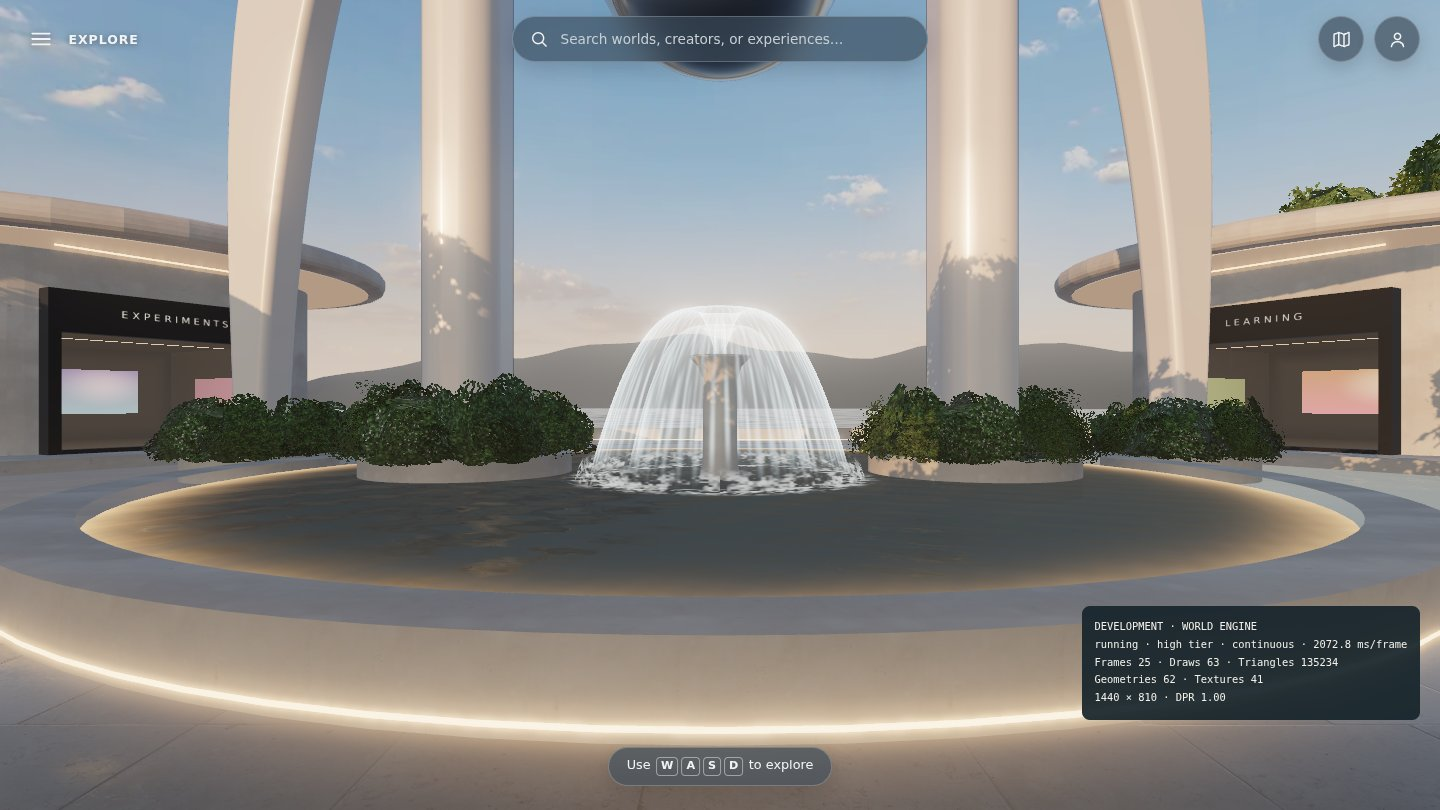
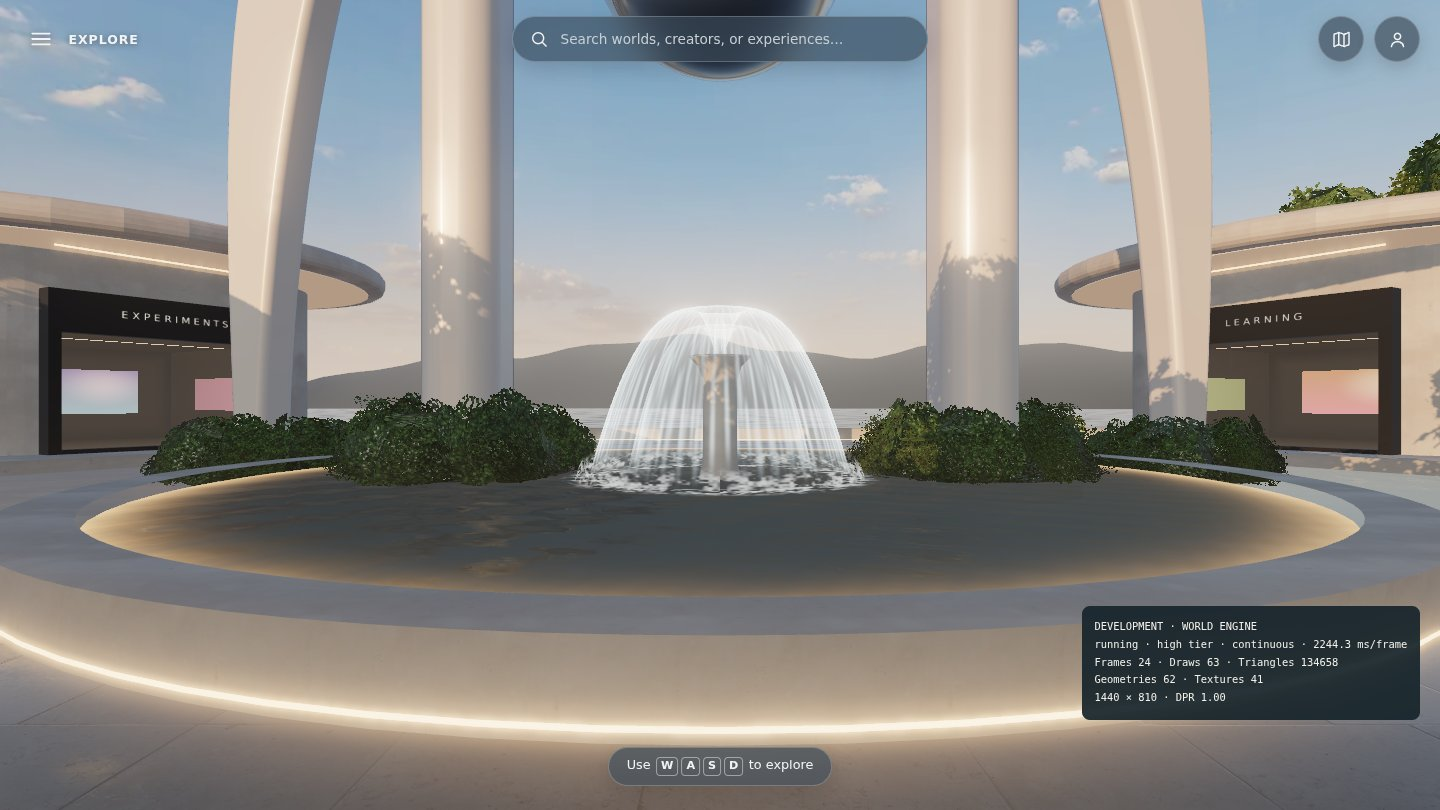
world: no visible base under the statue shrubs
The shrubs sat on raised stone drums that showed as a pale band. Basin
beds now keep their wall under the waterline with soil at the surface,
plaza beds are flush with the paving, and the outer shrub ring
overhangs the edge so foliage reaches the water or ground. Blockers
cover the overhang. Spawn: 96 draws, 149.4k triangles.

Claude-Session: https://claude.ai/code/session_01BtzidGomHJcCgLuWB6rxCd

Changed region(s): [[0.0938, 0.463, 0.4375, 0.6173], [0.5938, 0.463, 0.9062, 0.6173], [0.9062, 0.7716, 0.9375, 0.8333]]

diff --git a/src/world/district/landscape.ts b/src/world/district/landscape.ts
@@ -1,6 +1,6 @@
 import {
   BufferAttribute, BufferGeometry, CircleGeometry, CylinderGeometry, DoubleSide, IcosahedronGeometry, InstancedMesh, Matrix4,
-  MeshStandardMaterial, PlaneGeometry, Quaternion, RingGeometry, Vector3,
+  MeshStandardMaterial, PlaneGeometry, Quaternion, Vector3,
 } from 'three';
 import type { Group, Material, Mesh, Texture } from 'three';
 import { mergeGeometries } from 'three/addons/utils/BufferGeometryUtils.js';
@@ -298,25 +298,27 @@ export function buildLandscape(root: Group, m: DistrictMaterials, batch: StaticB
   if (tuft) instanced(root, tuft, m.grass, grass, resources, 'grass', false);
   rocks.forEach((list, i) => instanced(root, boulder(31 + i * 17), m.rock, list, resources, `boulders-${i}`));
 
-  // Landmark planters: a stone drum around each footing, packed with mounded shrubs that hide
-  // where the legs meet the ground. Islands in the fountain basin; raised beds on the plaza.
+  // Landmark planters: soil beds around each footing, packed with mounded shrubs that hide where
+  // the legs meet the ground. No stone shows: in the fountain basin the bed's wall stops just under
+  // the waterline so the shrubs rise straight out of the water; on the plaza the bed is flush with
+  // the paving. The outer ring overhangs the bed's edge so foliage reaches all the way down.
   const statueShrubs: Matrix4[][] = shrubKinds.map(() => []);
+  const waterline = 0.36;
   for (const planter of landmarkPlanters()) {
-    const floor = planter.inBasin ? -0.2 : 0;
-    const top = planter.inBasin ? 0.75 : 0.55;
-    const wall = new CylinderGeometry(planter.radius, planter.radius, top - floor, 48, 1, true);
-    batch.add(m.stone, wall, place(planter.x, (top + floor) / 2, planter.z), 1.5);
-    batch.add(m.stone, new RingGeometry(planter.radius - 0.22, planter.radius, 48).rotateX(-Math.PI / 2), place(planter.x, top, planter.z), 1.5);
-    batch.add(m.soil, new CircleGeometry(planter.radius - 0.22, 36).rotateX(-Math.PI / 2), place(planter.x, top - 0.08, planter.z), 1.2);
-    // A tight ring hugging the leg, then a lower ring spilling toward the rim.
+    const soil = planter.inBasin ? waterline + 0.01 : 0.012;
+    if (planter.inBasin) {
+      batch.add(m.stone, new CylinderGeometry(planter.radius, planter.radius, waterline - 0.02 + 0.2, 48, 1, true), place(planter.x, (waterline - 0.02 - 0.2) / 2, planter.z), 1.5);
+    }
+    batch.add(m.soil, new CircleGeometry(planter.radius, 36).rotateX(-Math.PI / 2), place(planter.x, soil, planter.z), 1.2);
+    // A tight ring of large shrubs hugging the leg, then a ring overhanging the bed's edge.
     const leg = planter.radius - 0.6;
     const inner = Math.round(leg * 6); const outer = Math.round(planter.radius * 2.6);
     for (let i = 0; i < inner + outer; i++) {
       const ring = i < inner;
       const a = ((ring ? i / inner : (i - inner) / outer) + (ring ? 0 : 0.5 / outer)) * Math.PI * 2 + rand() * 0.3;
-      const reach = ring ? leg + 0.15 : planter.radius - 0.45;
-      const scale = ring ? 1.05 + rand() * 0.25 : 0.7 + rand() * 0.2;
-      statueShrubs[i % 3 === 2 ? 2 : Math.floor(rand() * 2)]?.push(place(planter.x + Math.cos(a) * reach, top - 0.1, planter.z + Math.sin(a) * reach, rand() * 6, scale));
+      const reach = ring ? leg + 0.15 : planter.radius - (planter.inBasin ? 0.35 : 0.2);
+      const scale = ring ? 1.1 + rand() * 0.25 : 0.9 + rand() * 0.2;
+      statueShrubs[i % 3 === 2 ? 2 : Math.floor(rand() * 2)]?.push(place(planter.x + Math.cos(a) * reach, soil - 0.05, planter.z + Math.sin(a) * reach, rand() * 6, scale));
     }
   }
   const plantShrubs = (models: { kinds: BufferGeometry[]; map: Texture } | null): void => {

diff --git a/src/world/district/layout.ts b/src/world/district/layout.ts
@@ -125,9 +125,10 @@ export function landmarkFootings(): Circle[] {
 }
 
 /**
- * Round stone planters around each landmark footing, planted with shrubs that bury the base of
- * the legs (as in the mockup). The main legs stand in the fountain basin, so theirs are islands;
- * the wing feet's stand on the plaza. Sized to clear the bell fountain's foam and the basin rim.
+ * Round shrub beds around each landmark footing, planted so the base of the legs is buried (as in
+ * the mockup). The main legs stand in the fountain basin, so theirs are islands whose wall stays
+ * under the waterline; the wing feet's are flush with the plaza. Sized to clear the bell
+ * fountain's foam and the basin rim; shrubs overhang the bed by about half a meter.
  */
 export function landmarkPlanters(): (Circle & { inBasin: boolean })[] {
   const { fountain } = district;
@@ -157,7 +158,8 @@ export function districtBlockers(): Blocker[] {
   for (const banner of district.banners) blockers.push({ x: banner.x, z: banner.z, radius: 0.35 });
   for (const bollard of district.bollards) blockers.push({ x: bollard.x, z: bollard.z, radius: 0.25 });
   blockers.push({ x: district.fountain.x, z: district.fountain.z, radius: district.fountain.radius + 0.4 });
-  for (const planter of landmarkPlanters()) blockers.push({ x: planter.x, z: planter.z, radius: planter.radius + 0.1 });
+  // Shrubs overhang their bed by about half a meter.
+  for (const planter of landmarkPlanters()) blockers.push({ x: planter.x, z: planter.z, radius: planter.radius + 0.5 });
   return blockers;
 }
 

diff --git a/docs/STATUE_PLANTING.md b/docs/STATUE_PLANTING.md
@@ -22,19 +22,25 @@ Mockup, before, after (same crop from spawn):
   - flowering: glossy leaves with small pale blossoms.
 
   The atlas reuses the tree script's leaf painter. Normals point out of the mound, and `COLOR_0` carries occlusion. Each shrub is 180–192 triangles.
-- **Layout (`landmarkPlanters()` in `layout.ts`).** Each footing gets a round stone planter, 0.6 m wider than the footing.
+- **Layout (`landmarkPlanters()` in `layout.ts`).** Each footing gets a round shrub bed, 0.6 m wider than the footing.
   - The main legs' planters (2.0 m) are islands in the basin, clear of the bell fountain's foam.
   - The wing feet's planters (1.6 m) are raised beds on the plaza, clear of the basin rim.
-  - The planters replace the footings as navigation blockers. A new unit test checks both clearances.
-- **Planting (`landscape.ts`).** Each planter is a stone drum with a rim and soil (merged into the existing stone and soil batches). A tight ring of larger shrubs hugs the leg, and a lower ring spills toward the rim: 46 shrubs across three kinds, instanced, 3 draw calls. If the file fails to load, the procedural leaf-card mound stands in.
+  - The beds, plus the shrubs' half-meter overhang, replace the footings as navigation blockers. A new unit test checks both clearances.
+- **Planting (`landscape.ts`).** A tight ring of larger shrubs hugs each leg, and an outer ring overhangs the bed's edge: 46 shrubs across three kinds, instanced, 3 draw calls. If the file fails to load, the procedural leaf-card mound stands in.
+- **No visible base (revision).** The first version sat the shrubs on raised stone drums, and the drum showed as a pale band under every mound. Now:
+  - the basin beds' wall stops just under the waterline, and their soil sits at the water surface, so the shrubs rise straight out of the water;
+  - the plaza beds are flush with the paving;
+  - the outer ring moved out to overhang the edge, so foliage reaches the water or the ground all round.
+
+  ![Bases after the revision](art/statue-shrubs-bases.jpg)
 
 ## Cost (SwiftShader counts, desktop 1440×900)
 
 | View | Draws before → after | Triangles before → after |
 | --- | --- | --- |
-| high · spawn | 93 → 96 | 140.5k → 149.9k |
-| high · plaza | 62 → 65 | 126.0k → 135.4k |
-| low · spawn | 71 → 74 | 99.7k → 109.1k |
+| high · spawn | 93 → 96 | 140.5k → 149.4k |
+| high · plaza | 62 → 65 | 126.0k → 134.9k |
+| low · spawn | 71 → 74 | 99.7k → 108.6k |
 
 Spawn is now at the 150k-triangle budget. The first build (120 cards per shrub and a denser outer ring) measured 153.1k and was trimmed to fit. Any further additions in view of spawn need an offset, for example a lighter LOD for the outer groves.
 

diff --git a/docs/PERFORMANCE_BUDGET.md b/docs/PERFORMANCE_BUDGET.md
@@ -78,7 +78,7 @@ It renders four fixed views synchronously, forcing GPU completion with a 1-pixel
 | High tier, desktop 1440×900, reference GPU (M5), median | ≤ 6 ms (≥ 2.5× headroom under 16.7 ms) | 2.7 ms |
 | High tier, DPR 2, reference GPU, median | ≤ 8 ms | 5.0 ms |
 | Draw calls at spawn | ≤ 120 | 96 (Blender trees, landmark, and statue shrubs; bell fountain; SwiftShader count) |
-| Triangles in view | ≤ 150k | 149.9k at spawn: at budget (Blender trees, landmark, and statue shrubs; bell fountain; SwiftShader count) |
+| Triangles in view | ≤ 150k | 149.4k at spawn: at budget (Blender trees, landmark, and statue shrubs; bell fountain; SwiftShader count) |
 | Initial transfer | ≤ 5 MB | 2.27 MB |
 | Local assets ready (broadband) | ≤ 2 s | about 0.5 s |
 | JS bundle (uncompressed) | ≤ 750 kB | 717 kB main + 71 kB lazy glTF loader |
@@ -104,7 +104,7 @@ The GLB adds 84 kB of transfer.
 
 **Bell fountain (2026-09-25).** The ring of 14 jet meshes is replaced by one bell, inner sheet, jet, and foam (see [FOUNTAIN.md](FOUNTAIN.md)). Spawn: 104 → 93 draws, 140.1k → 140.5k triangles.
 
-**Statue shrubs (2026-09-25).** Planters with 46 Blender shrubs around the landmark footings (see [STATUE_PLANTING.md](STATUE_PLANTING.md)). Spawn: 93 → 96 draws, 140.5k → 149.9k triangles. **Spawn is at the triangle budget**: offset anything new in view.
+**Statue shrubs (2026-09-25).** Planters with 46 Blender shrubs around the landmark footings (see [STATUE_PLANTING.md](STATUE_PLANTING.md)). Spawn: 93 → 96 draws, 140.5k → 149.4k triangles. **Spawn is at the triangle budget**: offset anything new in view.
 
 ## Quality tiers
 
